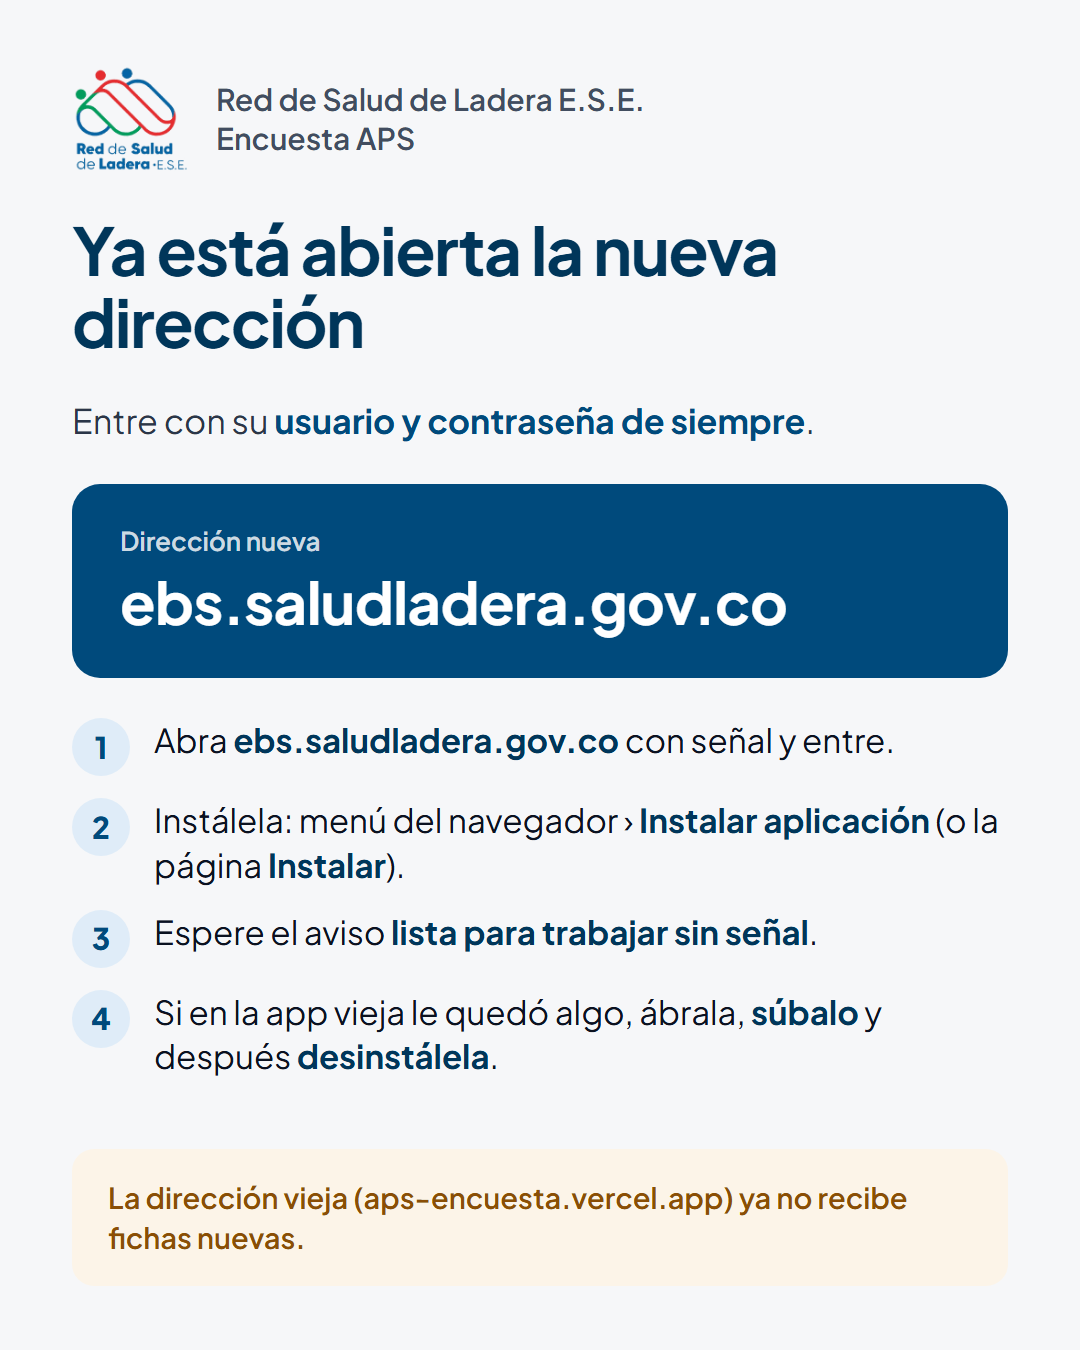
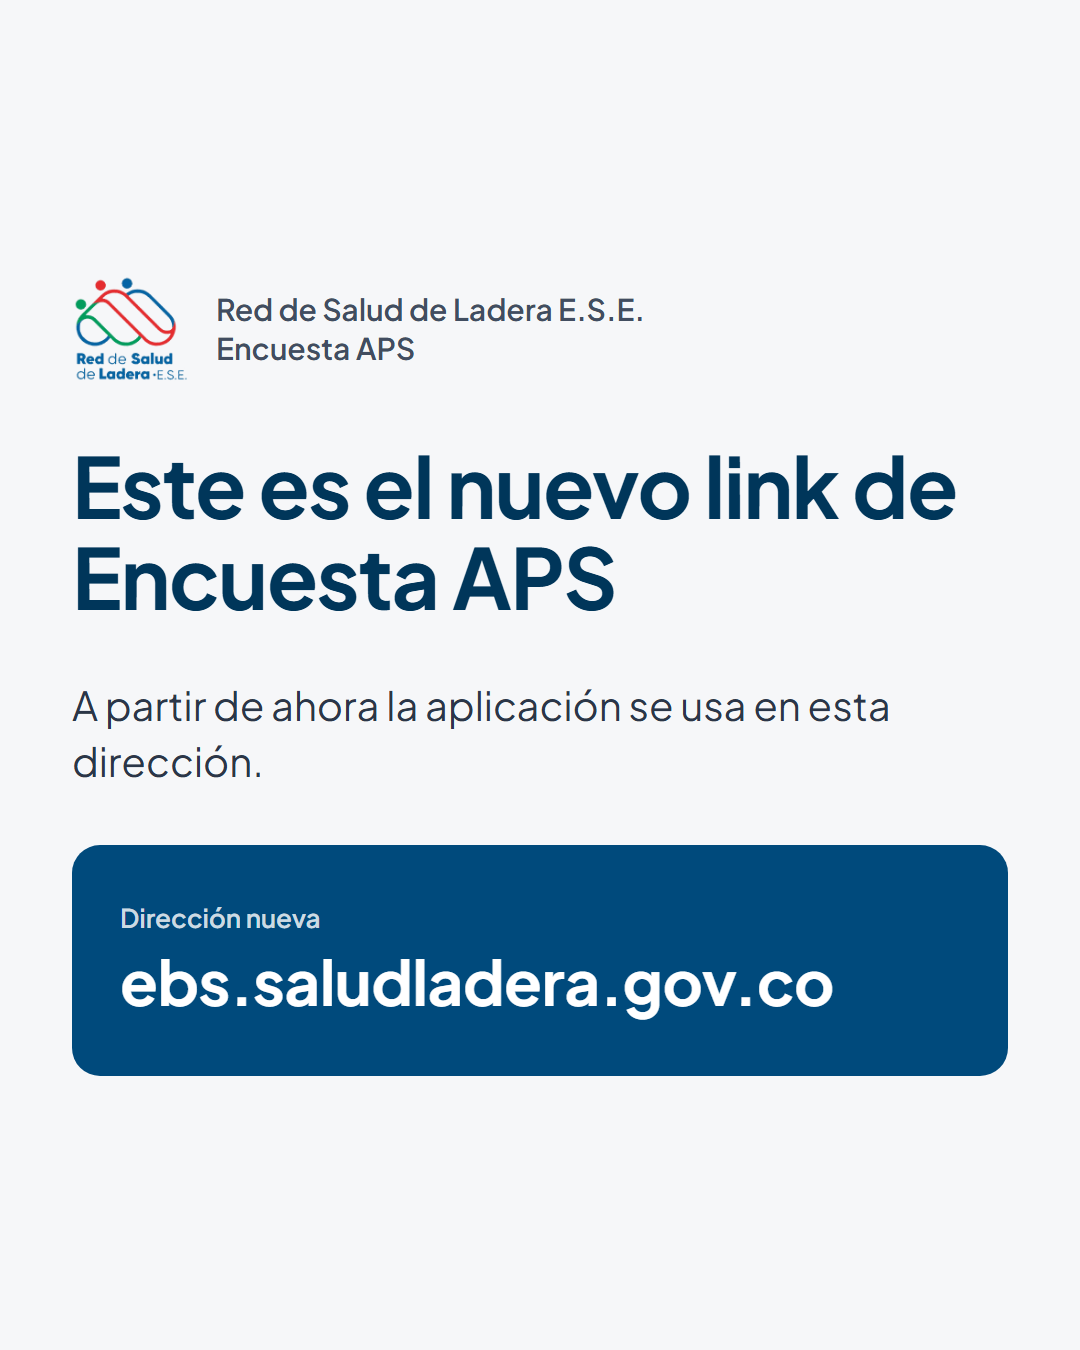
docs: la segunda imagen y el mensaje de la mudanza sólo dicen el nuevo link

diff --git a/entregables/mudanza/generar_instructivo.js b/entregables/mudanza/generar_instructivo.js
@@ -36,6 +36,7 @@ function cuando(texto) {
 const corte = cuando(configuracion.corte);
 
 function pagina(titulo, subtitulo, pasos, pie) {
+  const simple = pasos.length === 0;
   return `<!DOCTYPE html><html lang="es"><head><meta charset="utf-8">
 <link rel="stylesheet" href="../../vendor/fuentes/fuentes.css">
 <style>
@@ -57,14 +58,19 @@ function pagina(titulo, subtitulo, pasos, pie) {
          font-weight: 800; display: flex; align-items: center; justify-content: center; font-size: 30px; }
   li b { color: #00365a; }
   .pie { margin-top: auto; background: #fcf4e8; color: #8a4e05; border-radius: 22px; padding: 28px 36px; font-size: 29px; line-height: 1.4; font-weight: 600; }
+  body.simple { justify-content: center; gap: 56px; }
+  body.simple h1 { font-size: 84px; }
+  body.simple .sub { font-size: 40px; }
+  body.simple .link strong { font-size: 62px; word-break: normal; white-space: nowrap; }
+  body.simple .link { padding: 56px 48px; }
   .puntos { display: flex; gap: 10px; } .puntos u { width: 18px; height: 18px; border-radius: 50%; display: block; }
-</style></head><body>
+</style></head><body class="${simple ? 'simple' : ''}">
   <div class="marca"><img src="../../logo-ladera.png" alt=""><span>Red de Salud de Ladera E.S.E.<br>Encuesta APS</span></div>
   <h1>${titulo}</h1>
   <p class="sub">${subtitulo}</p>
   <div class="link"><small>Dirección nueva</small><strong>${host}</strong></div>
-  <ol>${pasos.map(function (p, i) { return '<li><i>' + (i + 1) + '</i><span>' + p + '</span></li>'; }).join('')}</ol>
-  <p class="pie">${pie}</p>
+  ${pasos.length ? '<ol>' + pasos.map(function (p, i) { return '<li><i>' + (i + 1) + '</i><span>' + p + '</span></li>'; }).join('') + '</ol>' : ''}
+  ${pie ? '<p class="pie">' + pie + '</p>' : ''}
 </body></html>`;
 }
 
@@ -85,15 +91,10 @@ const IMAGENES = [
   {
     archivo: 'instructivo_2_ya.png',
     html: pagina(
-      'Ya está abierta la nueva dirección',
-      'Entre con su <b>usuario y contraseña de siempre</b>.',
-      [
-        'Abra <b>' + host + '</b> con señal y entre.',
-        'Instálela: menú del navegador › <b>Instalar aplicación</b> (o la página <b>Instalar</b>).',
-        'Espere el aviso <b>lista para trabajar sin señal</b>.',
-        'Si en la app vieja le quedó algo, ábrala, <b>súbalo</b> y después <b>desinstálela</b>.'
-      ],
-      'La dirección vieja (aps-encuesta.vercel.app) ya no recibe fichas nuevas.'
+      'Este es el nuevo link de Encuesta APS',
+      'A partir de ahora la aplicación se usa en esta dirección.',
+      [],
+      ''
     )
   }
 ];
